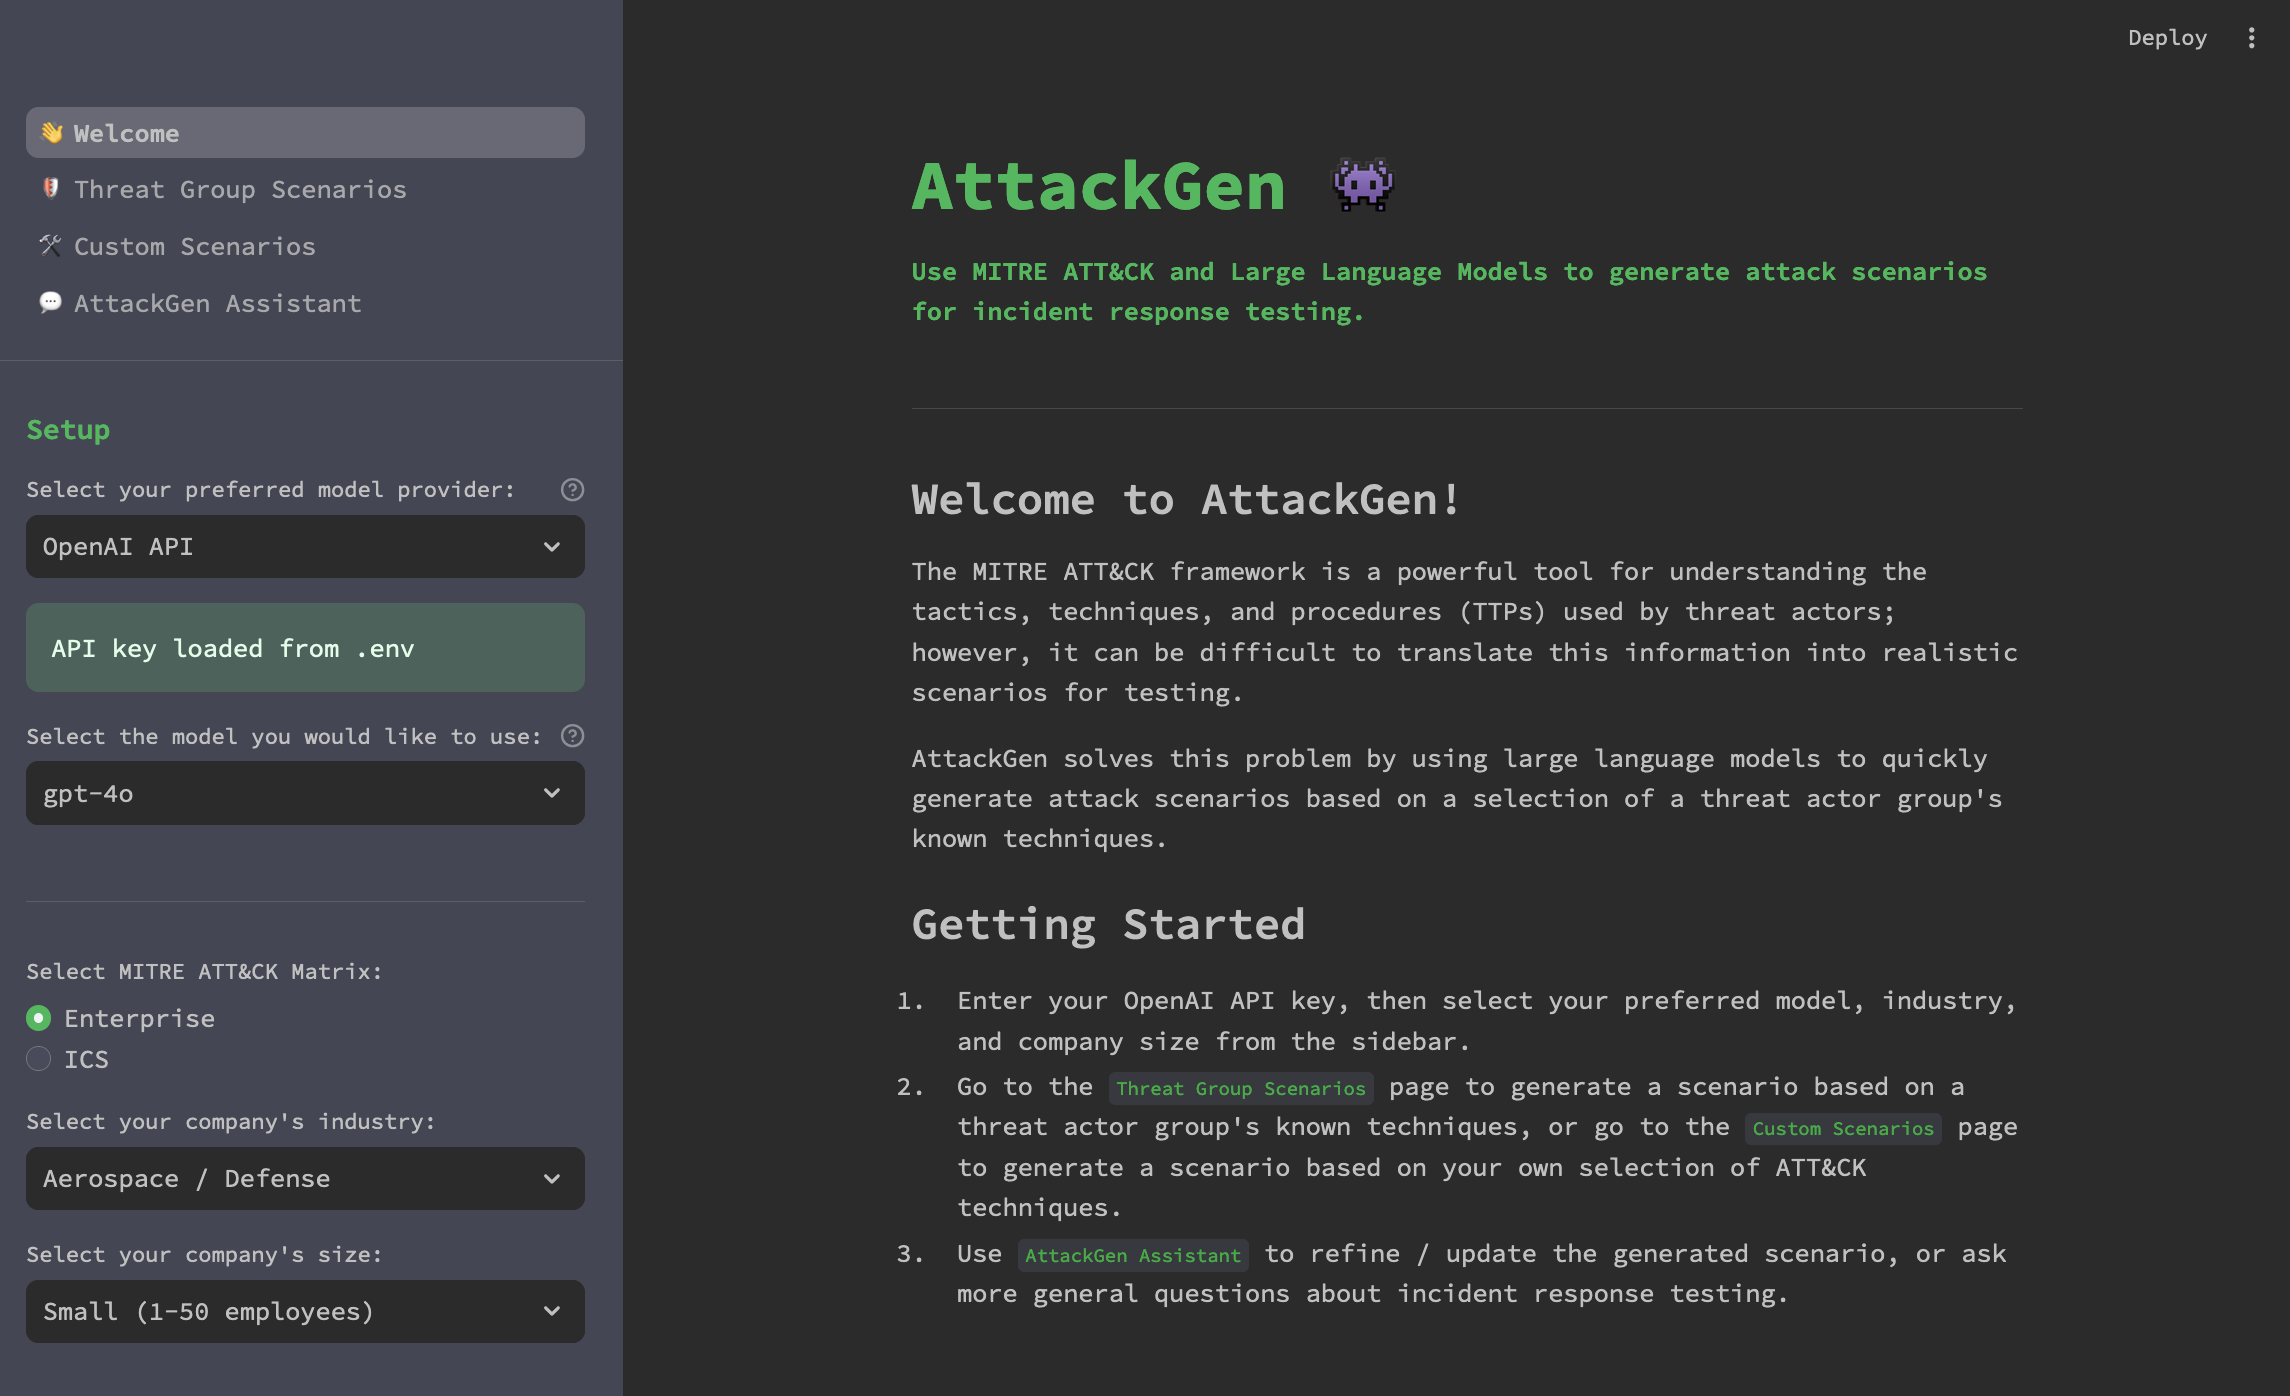
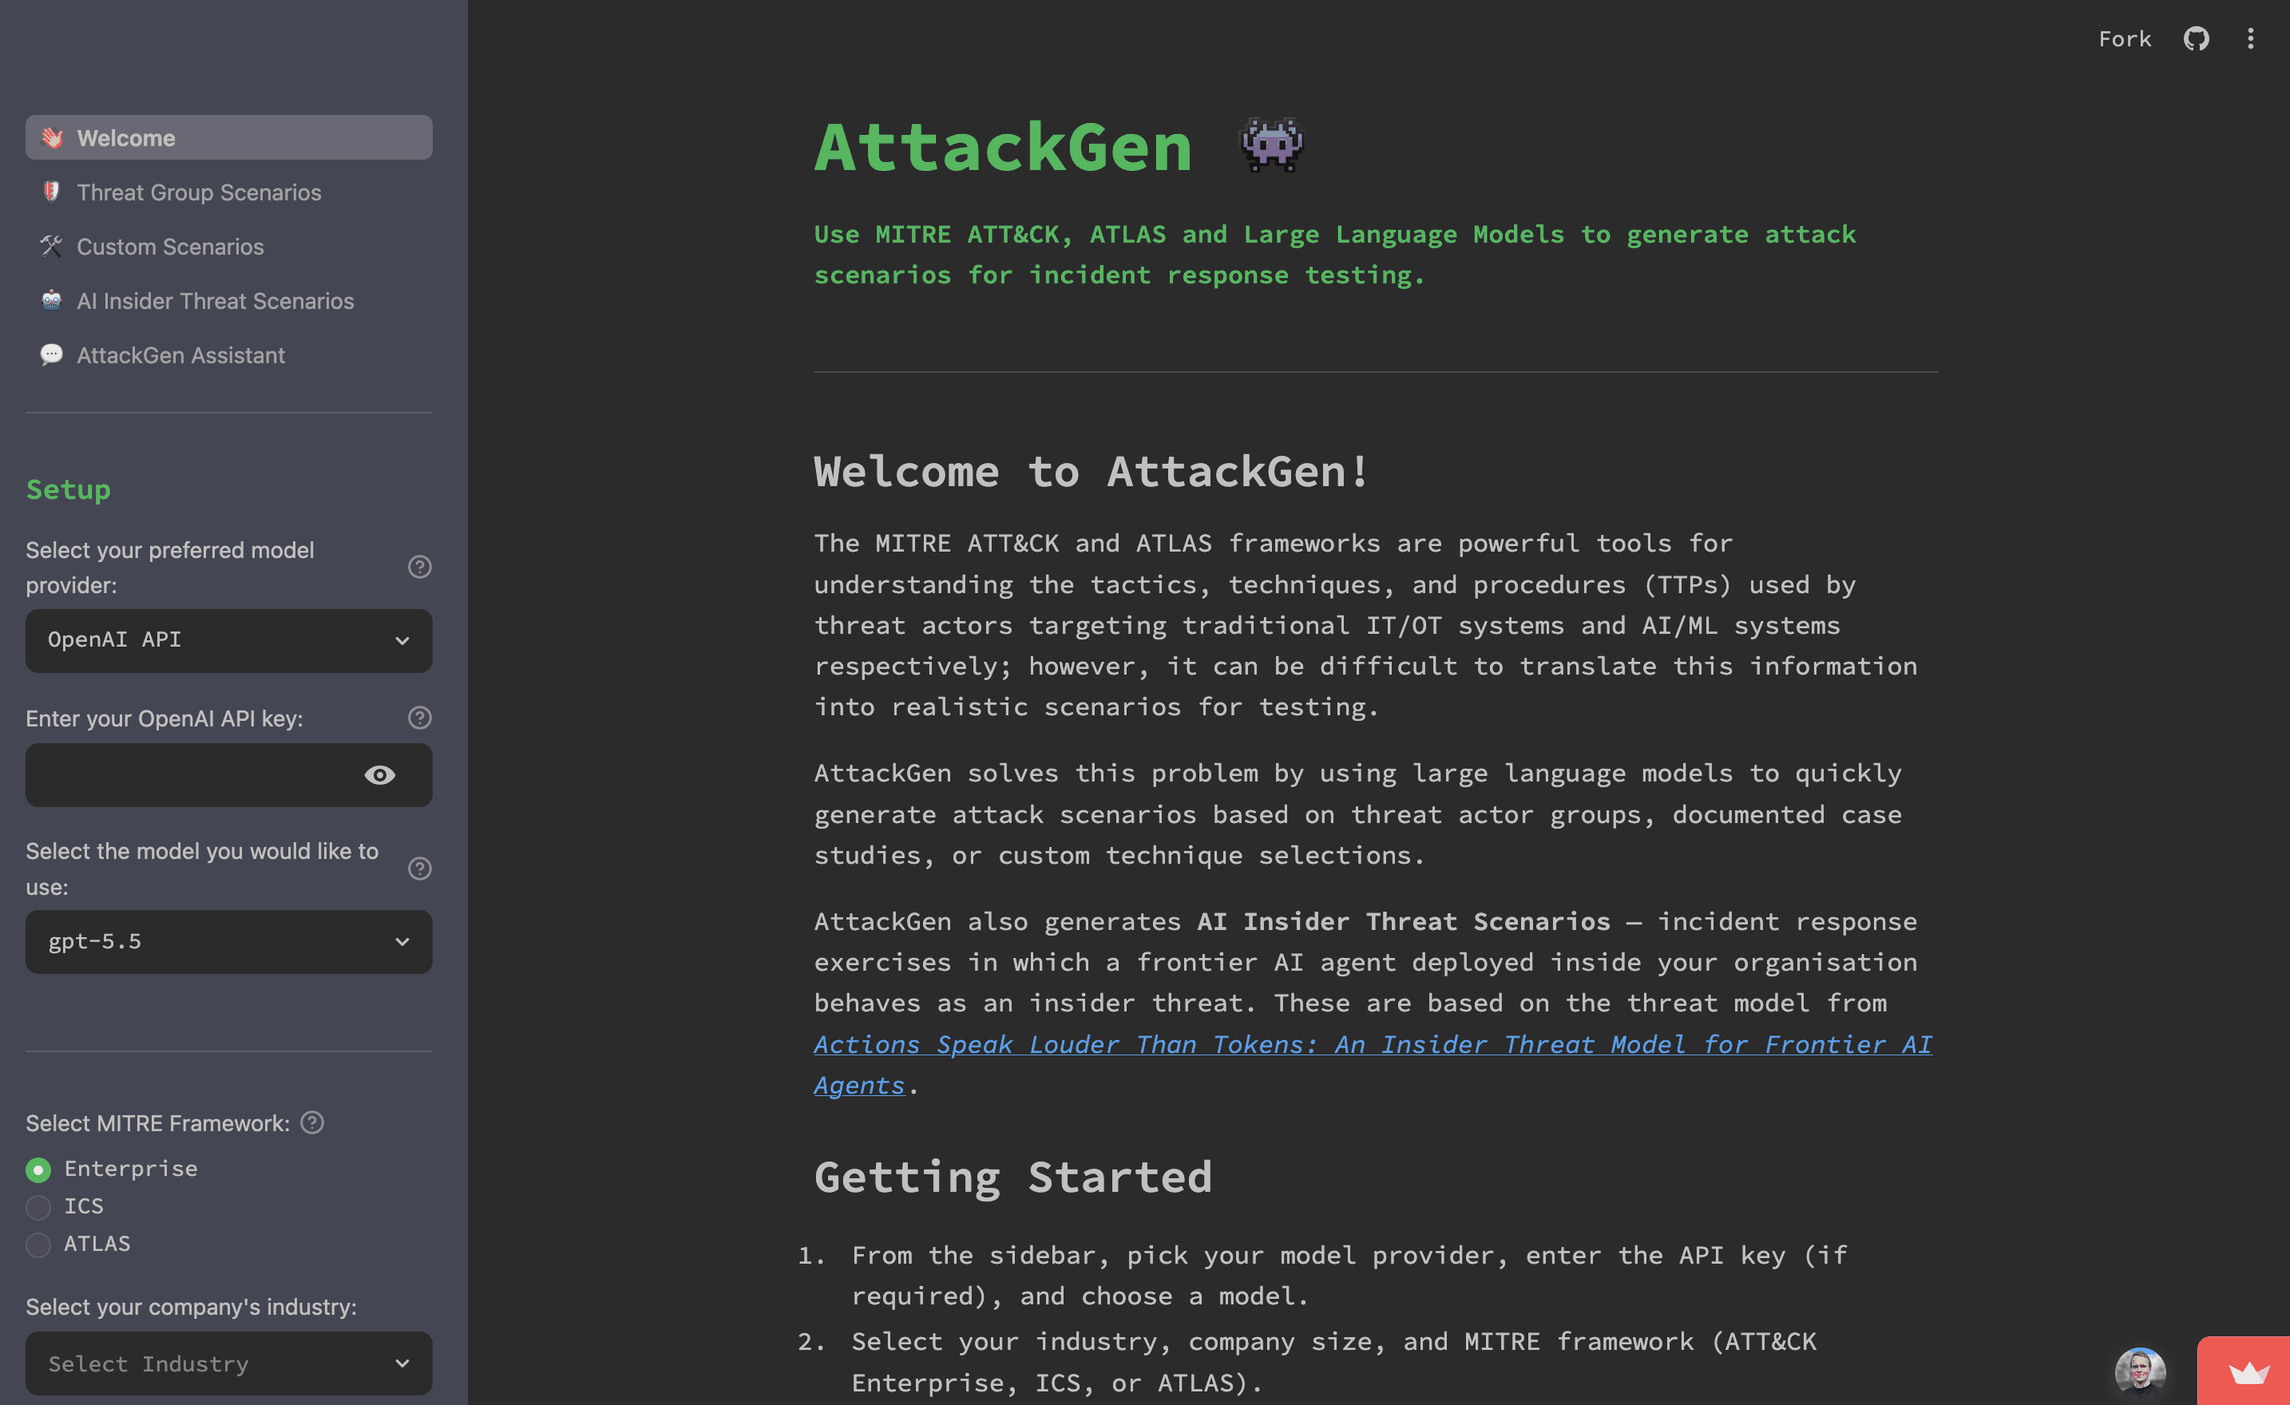
Merge pull request #39 from mrwadams/docs/fix-drift-litellm-migration
docs: fix drift left by the LiteLLM migration

Pull request: docs: fix drift left by the LiteLLM migration
## Summary

A documentation review (`/doc-review`) found the README, CLAUDE.md and `.env.example` are mostly healthy but carry drift the **v0.12 LiteLLM migration** left behind — that release consolidated the separate Azure OpenAI and Ollama providers into one **Custom (OpenAI-compatible)** provider, dropped `langchain`, and committed the MITRE data files into the repo, but a few docs were never updated to match.

This PR fixes the confirmed, verifiable findings (all checked against the code/config, not just the docs).

## Changes

**`.env.example` (was the highest-impact issue)**
- Removed `AZURE_OPENAI_API_KEY` / `AZURE_OPENAI_ENDPOINT` / `AZURE_DEPLOYMENT` / `OLLAMA_BASE_URL` — a repo-wide grep confirms **no code reads these anymore**.
- Added `CUSTOM_API_KEY` / `CUSTOM_BASE_URL` / `CUSTOM_MODEL_NAME`, which the Custom provider actually reads (`core/models.py:84`, `00_👋_Welcome.py:102,133`), with Ollama/LM Studio examples in comments.

**README**
- **Data Setup**: the MITRE ATT&CK/ATLAS datasets are now committed under `./data/` (`git ls-files data/`), so a fresh clone runs with no download step. Replaced the manual-download instructions with that fact plus an upstream-refresh pointer.
- **Requirements**: dropped the removed `langchain` dependency; replaced the stale 3-file data list with a note that the data ships with the repo.
- **Table of Contents**: added the missing `LangSmith Setup` entry.
[…]

diff --git a/CLAUDE.md b/CLAUDE.md
@@ -27,6 +27,16 @@ docker build -t attackgen .
 docker run -p 8501:8501 attackgen
 ```
 
+### Running Tests
+```bash
+# Install dev dependencies (includes pytest)
+pip install -r requirements-dev.txt
+
+# Run the suite
+pytest
+```
+`pyproject.toml` sets `testpaths = ["tests"]` and `pythonpath = ["."]`, so `pytest` from the repo root discovers everything under `tests/` with no extra flags.
+
 ## Architecture
 
 ### Core Components
@@ -54,7 +64,8 @@ docker run -p 8501:8501 attackgen
 ### Configuration
 - **.env**: API keys and secrets (not tracked in git)
 - **.streamlit/secrets.toml**: Streamlit secrets for LangSmith integration
-- **requirements.txt**: Python dependencies — `litellm`, `streamlit`, `mitreattack-python`, `pandas`, `langsmith`
+- **requirements.txt**: Python dependencies — `litellm`, `openai`, `streamlit`, `mitreattack-python`, `pandas`, `langsmith`, `python-dotenv`
+- **requirements-dev.txt**: Development dependencies (`pytest`); installs `requirements.txt` plus test tooling
 
 ### Key Libraries
 - **Streamlit**: Web application framework

diff --git a/README.md b/README.md
@@ -8,6 +8,7 @@ AttackGen is a cybersecurity incident response testing tool that leverages the p
 - [Releases](#releases)
 - [Requirements](#requirements)
 - [Installation](#installation)
+- [LangSmith Setup](#langsmith-setup)
 - [Data Setup](#data-setup)
 - [Running AttackGen](#running-attackgen)
 - [Usage](#usage)
@@ -160,10 +161,10 @@ Initial release.
 ## Requirements
 
 - Recent version of Python.
-- Python packages: pandas, streamlit, and any other packages necessary for the custom libraries (`langchain` and `mitreattack`).
+- Python packages: `streamlit`, `litellm`, `mitreattack-python`, `pandas` (see `requirements.txt` for the full list).
 - OpenAI API key (or API key for your chosen model provider).
 - LangChain API key (optional) - see [LangSmith Setup](#langsmith-setup) section below for further details.
-- Data files: `enterprise-attack.json` and `ics-attack.json` (MITRE ATT&CK datasets in STIX format), and `groups.json`.
+- MITRE ATT&CK and ATLAS data files. These ship with the repository (in `./data/`), so no manual download is required (see [Data Setup](#data-setup)).
 - `.env` file for storing API keys and secrets (see [Installation](#installation) section for details).
 
 ## Installation
@@ -203,7 +204,9 @@ If you do not wish to use LangSmith, you must still have a `.streamlit/secrets.t
 
 ## Data Setup
 
-Download the latest version of the MITRE ATT&CK dataset in STIX format from [here](https://github.com/mitre-attack/attack-stix-data/blob/master/enterprise-attack/enterprise-attack.json). Ensure to place this file in the `./data/` directory within the repository.
+The MITRE ATT&CK (Enterprise + ICS) and ATLAS datasets that AttackGen needs are committed to the repository under `./data/`, so a fresh clone is ready to run with no extra download step. These include `enterprise-attack.json`, `ics-attack.json`, `stix-atlas.json`, `groups.json`, `groups_ics.json`, and `atlas-case-studies.json`.
+
+If you want to refresh them to the latest upstream release, you can re-download the STIX bundles from the [MITRE ATT&CK STIX data repository](https://github.com/mitre-attack/attack-stix-data) (and the [ATLAS data repository](https://github.com/mitre-atlas/atlas-data)) and replace the files in `./data/`.
 
 ## Running AttackGen
 